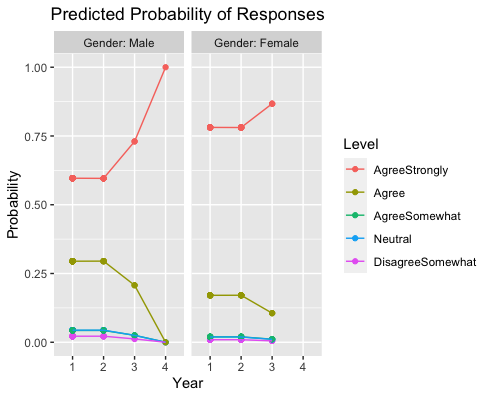
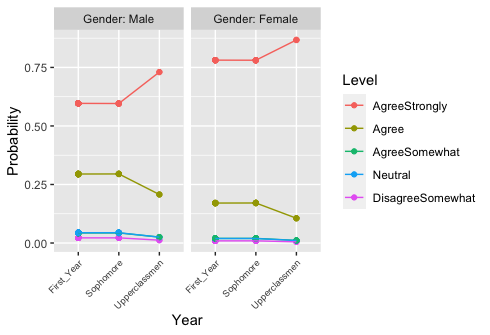
adding new visualization to poster

diff --git a/Fellowship_Poster/Fellowship_Poster.html b/Fellowship_Poster/Fellowship_Poster.html
@@ -24,8 +24,6 @@ Google fonts api stuff
 <title>Visualizing Student Evaluation Data</title>
 
 
-<script src="Fellowship_Poster_files/kePrint-0.0.1/kePrint.js"></script>
-<link href="Fellowship_Poster_files/lightable-0.0.1/lightable.css" rel="stylesheet" />
 
 
 
@@ -333,121 +331,14 @@ font-size: 20pt;
 <ul>
 <li>Fitted ordinal logistic regression model to predict and visualize probability of student responses based on student class year and sex</li>
 </ul>
-<table class="table" style="font-size: 24px; width: auto !important; margin-left: auto; margin-right: auto;">
-<thead>
-<tr>
-<th style="text-align:left;">
-Reason
-</th>
-<th style="text-align:left;">
-Year
-</th>
-<th style="text-align:left;">
-Gender
-</th>
-<th style="text-align:left;">
-Level
-</th>
-<th style="text-align:right;">
-Probability
-</th>
-</tr>
-</thead>
-<tbody>
-<tr>
-<td style="text-align:left;">
-Major
-</td>
-<td style="text-align:left;">
-1
-</td>
-<td style="text-align:left;">
-Male
-</td>
-<td style="text-align:left;">
-DisagreeSomewhat
-</td>
-<td style="text-align:right;">
-0.0219954
-</td>
-</tr>
-<tr>
-<td style="text-align:left;">
-Distribution
-</td>
-<td style="text-align:left;">
-3
-</td>
-<td style="text-align:left;">
-Female
-</td>
-<td style="text-align:left;">
-Neutral
-</td>
-<td style="text-align:right;">
-0.0106623
-</td>
-</tr>
-<tr>
-<td style="text-align:left;">
-Major
-</td>
-<td style="text-align:left;">
-1
-</td>
-<td style="text-align:left;">
-Male
-</td>
-<td style="text-align:left;">
-AgreeSomewhat
-</td>
-<td style="text-align:right;">
-0.0428492
-</td>
-</tr>
-<tr>
-<td style="text-align:left;">
-Interest
-</td>
-<td style="text-align:left;">
-1
-</td>
-<td style="text-align:left;">
-Male
-</td>
-<td style="text-align:left;">
-AgreeSomewhat
-</td>
-<td style="text-align:right;">
-0.0428492
-</td>
-</tr>
-<tr>
-<td style="text-align:left;">
-Distribution
-</td>
-<td style="text-align:left;">
-3
-</td>
-<td style="text-align:left;">
-Female
-</td>
-<td style="text-align:left;">
-Agree
-</td>
-<td style="text-align:right;">
-0.1057868
-</td>
-</tr>
-</tbody>
-</table>
-<p><img src="Rplot_Probability.png" width="910px" style="display: block; margin: auto;" /></p>
+<p><img src="Rplot_Probability.png" width="850px" style="display: block; margin: auto;" /></p>
 </div>
 <div id="additional-visualization" class="section level1">
 <h1>Additional Visualization</h1>
 <ul>
 <li>Static visualization of new question added to student evaluations</li>
 </ul>
+<p><img src="Fellowship_Poster_files/figure-html/unnamed-chunk-5-1.png" width="725px" style="display: block; margin: auto;" /></p>
 </div>
 <div id="references" class="section level1">
 <h1>References</h1>
